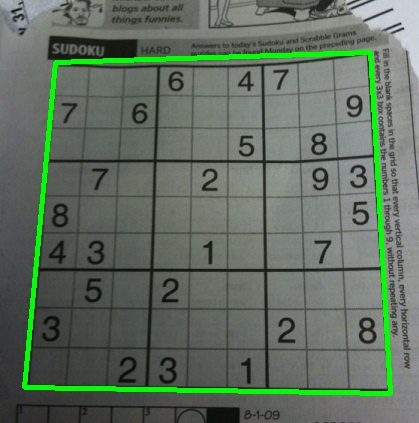
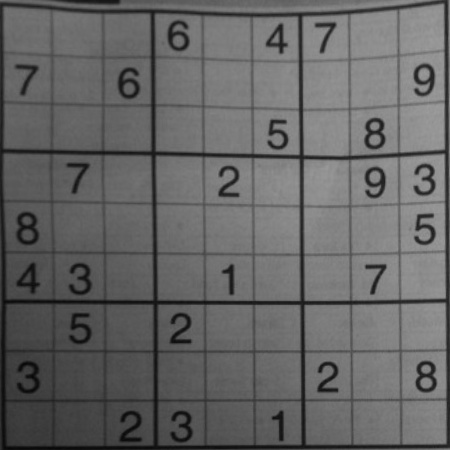
Cropped out the sudoku board

diff --git a/read.py b/read.py
@@ -30,8 +30,22 @@ def convert_form(feature):
     unused.remove(bottom_right_ind)
     unused.remove(top_right_ind)
     bottom_left_ind = list(unused)[0]
-    return np.array([feature[top_left_ind],feature[top_right_ind],
-            feature[bottom_right_ind],feature[bottom_left_ind]])
+    return np.array([feature[top_left_ind][0],feature[top_right_ind][0],
+            feature[bottom_right_ind][0],feature[bottom_left_ind][0]],np.float32)
+
+def rectify(h):
+    h = h.reshape((4,2))
+    hnew = np.zeros((4,2),dtype = np.float32)
+ 
+    add = h.sum(1)
+    hnew[0] = h[np.argmin(add)]
+    hnew[2] = h[np.argmax(add)]
+         
+    diff = np.diff(h,axis = 1)
+    hnew[1] = h[np.argmin(diff)]
+    hnew[3] = h[np.argmax(diff)]
+  
+    return hnew
 
 def main(fn):
     img    = cv2.imread(fn)
@@ -60,8 +74,11 @@ def main(fn):
     best_rect = cv2.approxPolyDP(board_contour, .02 * board_perim, True)
     form_rect = convert_form(best_rect)
 
-    cv2.drawContours(img, [form_rect], 0, (0,255,0), 3)
-    cv2.imwrite("result.jpg", img)
+    transform_dest = np.array([[0,0],[449,0],[449,449],[0,449]], np.float32)
+    transfrom = cv2.getPerspectiveTransform(form_rect,transform_dest)
+    warp = cv2.warpPerspective(gray,transfrom,(450,450))
+
+    cv2.imwrite("result.jpg", warp)
 
 if __name__ == "__main__":
     main("sudoku.jpg")
